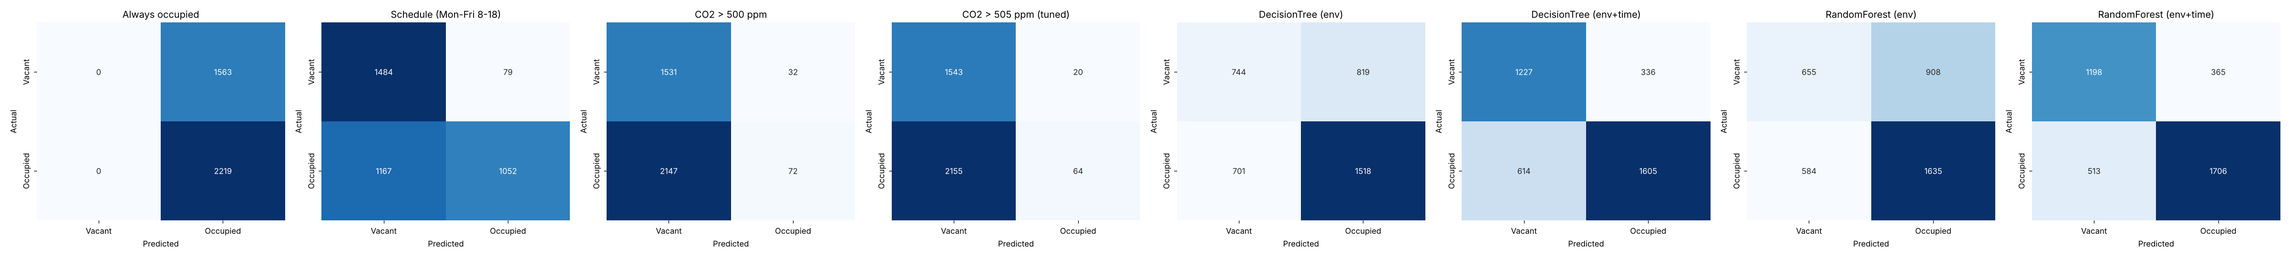
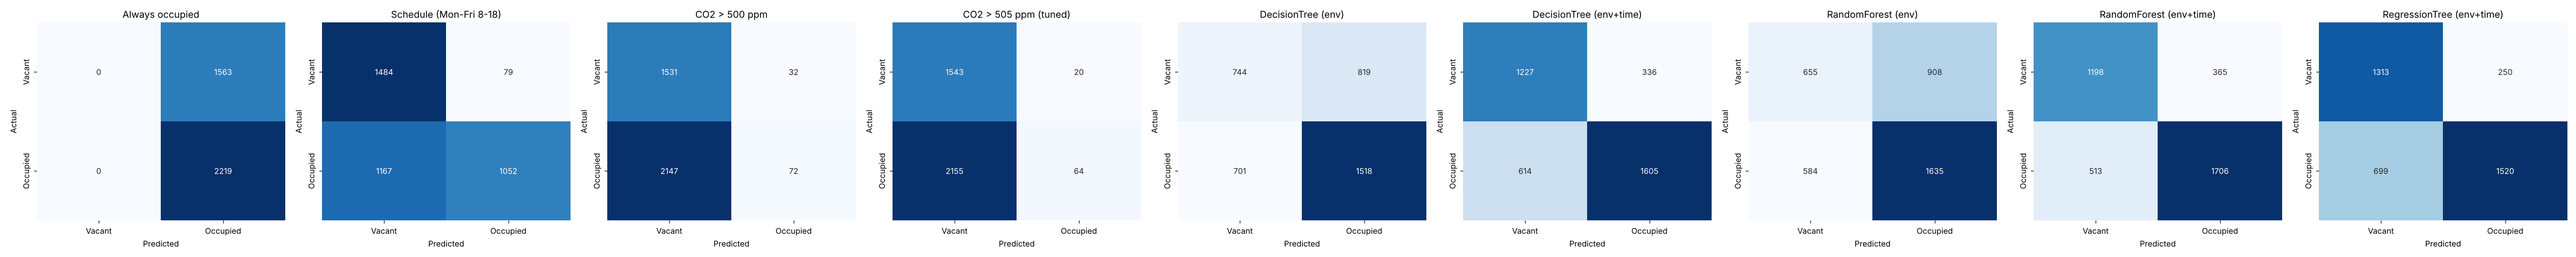
Add a regression tree on the share of spaces occupied
- train_models.train_regression_tree fits a DecisionTreeRegressor to the
  share of spaces occupied; classify_fraction applies the label threshold
- evaluate.get_regression_metrics reports MAE, RMSE and R2
- main.py compares the thresholded regression tree with the classifiers on
  the test set, in cross-validation, the depth sweep and the threshold
  sensitivity, and writes regression_metrics.csv against a training-mean
  baseline
- Three new tests; test report regenerated (23 passed)

diff --git a/results/test_report.html b/results/test_report.html
@@ -328,7 +328,7 @@ div.media {
   </head>
   <body>
     <h1 id="title">test_report.html</h1>
-    <p>Report generated on 24-Oct-2026 at 00:21:47 by <a href="https://pypi.python.org/pypi/pytest-html">pytest-html</a>
+    <p>Report generated on 24-Oct-2026 at 05:44:35 by <a href="https://pypi.python.org/pypi/pytest-html">pytest-html</a>
         v4.2.0</p>
     <div id="environment-header">
       <h2>Environment</h2>
@@ -383,7 +383,7 @@ div.media {
         <h2>Summary</h2>
         <div class="additional-summary prefix">
         </div>
-        <p class="run-count">20 tests took 00:00:03.</p>
+        <p class="run-count">23 tests took 00:00:02.</p>
         <p class="filter">(Un)check the boxes to filter the results.</p>
         <div class="summary__reload">
           <div class="summary__reload__button hidden" onclick="location.reload()">
@@ -396,7 +396,7 @@ div.media {
             <input checked="true" class="filter" name="filter_checkbox" type="checkbox" data-test-result="failed" disabled>
             <span class="failed">0 Failed,</span>
             <input checked="true" class="filter" name="filter_checkbox" type="checkbox" data-test-result="passed" >
-            <span class="passed">20 Passed,</span>
+            <span class="passed">23 Passed,</span>
             <input checked="true" class="filter" name="filter_checkbox" type="checkbox" data-test-result="skipped" disabled>
             <span class="skipped">0 Skipped,</span>
             <input checked="true" class="filter" name="filter_checkbox" type="checkbox" data-test-result="xfailed" disabled>
@@ -431,7 +431,7 @@ div.media {
       </thead>
     </table>
   <footer>
-    <div id="data-container" data-jsonblob="{&#34;environment&#34;: {&#34;Python&#34;: &#34;3.13.16&#34;, &#34;Platform&#34;: &#34;Linux-6.18.44-fc-v153-x86_64-with-glibc2.39&#34;, &#34;Packages&#34;: {&#34;pytest&#34;: &#34;9.1.1&#34;, &#34;pluggy&#34;: &#34;1.7.0&#34;}, &#34;Plugins&#34;: {&#34;html&#34;: &#34;4.2.0&#34;, &#34;metadata&#34;: &#34;3.1.1&#34;, &#34;anyio&#34;: &#34;4.15.1&#34;}, &#34;JAVA_HOME&#34;: &#34;/usr/lib/jvm/java-21-openjdk-amd64&#34;}, &#34;tests&#34;: {&#34;tests/test_data_loader.py::test_status_held_until_next_event&#34;: [{&#34;extras&#34;: [], &#34;result&#34;: &#34;Passed&#34;, &#34;testId&#34;: &#34;tests/test_data_loader.py::test_status_held_until_next_event&#34;, &#34;duration&#34;: &#34;11 ms&#34;, &#34;resultsTableRow&#34;: [&#34;&lt;td class=\&#34;col-result\&#34;&gt;Passed&lt;/td&gt;&#34;, &#34;&lt;td class=\&#34;col-testId\&#34;&gt;tests/test_data_loader.py::test_status_held_until_next_event&lt;/td&gt;&#34;, &#34;&lt;td class=\&#34;col-duration\&#34;&gt;11 ms&lt;/td&gt;&#34;, &#34;&lt;td class=\&#34;col-links\&#34;&gt;&lt;/td&gt;&#34;], &#34;log&#34;: &#34;No log output captured.&#34;}], &#34;tests/test_data_loader.py::test_status_expires_after_max_hold&#34;: [{&#34;extras&#34;: [], &#34;result&#34;: &#34;Passed&#34;, &#34;testId&#34;: &#34;tests/test_data_loader.py::test_status_expires_after_max_hold&#34;, &#34;duration&#34;: &#34;5 ms&#34;, &#34;resultsTableRow&#34;: [&#34;&lt;td class=\&#34;col-result\&#34;&gt;Passed&lt;/td&gt;&#34;, &#34;&lt;td class=\&#34;col-testId\&#34;&gt;tests/test_data_loader.py::test_status_expires_after_max_hold&lt;/td&gt;&#34;, &#34;&lt;td class=\&#34;col-duration\&#34;&gt;5 ms&lt;/td&gt;&#34;, &#34;&lt;td class=\&#34;col-links\&#34;&gt;&lt;/td&gt;&#34;], &#34;log&#34;: &#34;No log output captured.&#34;}], &#34;tests/test_data_loader.py::test_short_visit_inside_bin_counts_as_occupied&#34;: [{&#34;extras&#34;: [], &#34;result&#34;: &#34;Passed&#34;, &#34;testId&#34;: &#34;tests/test_data_loader.py::test_short_visit_inside_bin_counts_as_occupied&#34;, &#34;duration&#34;: &#34;4 ms&#34;, &#34;resultsTableRow&#34;: [&#34;&lt;td class=\&#34;col-result\&#34;&gt;Passed&lt;/td&gt;&#34;, &#34;&lt;td class=\&#34;col-testId\&#34;&gt;tests/test_data_loader.py::test_short_visit_inside_bin_counts_as_occupied&lt;/td&gt;&#34;, &#34;&lt;td class=\&#34;col-duration\&#34;&gt;4 ms&lt;/td&gt;&#34;, &#34;&lt;td class=\&#34;col-links\&#34;&gt;&lt;/td&gt;&#34;], &#34;log&#34;: &#34;No log output captured.&#34;}], &#34;tests/test_data_loader.py::test_building_fraction_requires_enough_known_spaces&#34;: [{&#34;extras&#34;: [], &#34;result&#34;: &#34;Passed&#34;, &#34;testId&#34;: &#34;tests/test_data_loader.py::test_building_fraction_requires_enough_known_spaces&#34;, &#34;duration&#34;: &#34;2 ms&#34;, &#34;resultsTableRow&#34;: [&#34;&lt;td class=\&#34;col-result\&#34;&gt;Passed&lt;/td&gt;&#34;, &#34;&lt;td class=\&#34;col-testId\&#34;&gt;tests/test_data_loader.py::test_building_fraction_requires_enough_known_spaces&lt;/td&gt;&#34;, &#34;&lt;td class=\&#34;col-duration\&#34;&gt;2 ms&lt;/td&gt;&#34;, &#34;&lt;td class=\&#34;col-links\&#34;&gt;&lt;/td&gt;&#34;], &#34;log&#34;: &#34;No log output captured.&#34;}], &#34;tests/test_data_loader.py::test_label_threshold_is_inclusive&#34;: [{&#34;extras&#34;: [], &#34;result&#34;: &#34;Passed&#34;, &#34;testId&#34;: &#34;tests/test_data_loader.py::test_label_threshold_is_inclusive&#34;, &#34;duration&#34;: &#34;0 ms&#34;, &#34;resultsTableRow&#34;: [&#34;&lt;td class=\&#34;col-result\&#34;&gt;Passed&lt;/td&gt;&#34;, &#34;&lt;td class=\&#34;col-testId\&#34;&gt;tests/test_data_loader.py::test_label_threshold_is_inclusive&lt;/td&gt;&#34;, &#34;&lt;td class=\&#34;col-duration\&#34;&gt;0 ms&lt;/td&gt;&#34;, &#34;&lt;td class=\&#34;col-links\&#34;&gt;&lt;/td&gt;&#34;], &#34;log&#34;: &#34;No log output captured.&#34;}], &#34;tests/test_data_loader.py::test_features_use_local_time_and_skip_gaps&#34;: [{&#34;extras&#34;: [], &#34;result&#34;: &#34;Passed&#34;, &#34;testId&#34;: &#34;tests/test_data_loader.py::test_features_use_local_time_and_skip_gaps&#34;, &#34;duration&#34;: &#34;4 ms&#34;, &#34;resultsTableRow&#34;: [&#34;&lt;td class=\&#34;col-result\&#34;&gt;Passed&lt;/td&gt;&#34;, &#34;&lt;td class=\&#34;col-testId\&#34;&gt;tests/test_data_loader.py::test_features_use_local_time_and_skip_gaps&lt;/td&gt;&#34;, &#34;&lt;td class=\&#34;col-duration\&#34;&gt;4 ms&lt;/td&gt;&#34;, &#34;&lt;td class=\&#34;col-links\&#34;&gt;&lt;/td&gt;&#34;], &#34;log&#34;: &#34;No log output captured.&#34;}], &#34;tests/test_data_loader.py::test_env_loader_removes_duplicates_and_faults&#34;: [{&#34;extras&#34;: [], &#34;result&#34;: &#34;Passed&#34;, &#34;testId&#34;: &#34;tests/test_data_loader.py::test_env_loader_removes_duplicates_and_faults&#34;, &#34;duration&#34;: &#34;9 ms&#34;, &#34;resultsTableRow&#34;: [&#34;&lt;td class=\&#34;col-result\&#34;&gt;Passed&lt;/td&gt;&#34;, &#34;&lt;td class=\&#34;col-testId\&#34;&gt;tests/test_data_loader.py::test_env_loader_removes_duplicates_and_faults&lt;/td&gt;&#34;, &#34;&lt;td class=\&#34;col-duration\&#34;&gt;9 ms&lt;/td&gt;&#34;, &#34;&lt;td class=\&#34;col-links\&#34;&gt;&lt;/td&gt;&#34;], &#34;log&#34;: &#34;No log output captured.&#34;}], &#34;tests/test_data_loader.py::test_occupancy_status_mapping[False-expected0]&#34;: [{&#34;extras&#34;: [], &#34;result&#34;: &#34;Passed&#34;, &#34;testId&#34;: &#34;tests/test_data_loader.py::test_occupancy_status_mapping[False-expected0]&#34;, &#34;duration&#34;: &#34;9 ms&#34;, &#34;resultsTableRow&#34;: [&#34;&lt;td class=\&#34;col-result\&#34;&gt;Passed&lt;/td&gt;&#34;, &#34;&lt;td class=\&#34;col-testId\&#34;&gt;tests/test_data_loader.py::test_occupancy_status_mapping[False-expected0]&lt;/td&gt;&#34;, &#34;&lt;td class=\&#34;col-duration\&#34;&gt;9 ms&lt;/td&gt;&#34;, &#34;&lt;td class=\&#34;col-links\&#34;&gt;&lt;/td&gt;&#34;], &#34;log&#34;: &#34;No log output captured.&#34;}], &#34;tests/test_data_loader.py::test_occupancy_status_mapping[True-expected1]&#34;: [{&#34;extras&#34;: [], &#34;result&#34;: &#34;Passed&#34;, &#34;testId&#34;: &#34;tests/test_data_loader.py::test_occupancy_status_mapping[True-expected1]&#34;, &#34;duration&#34;: &#34;8 ms&#34;, &#34;resultsTableRow&#34;: [&#34;&lt;td class=\&#34;col-result\&#34;&gt;Passed&lt;/td&gt;&#34;, &#34;&lt;td class=\&#34;col-testId\&#34;&gt;tests/test_data_loader.py::test_occupancy_status_mapping[True-expected1]&lt;/td&gt;&#34;, &#34;&lt;td class=\&#34;col-duration\&#34;&gt;8 ms&lt;/td&gt;&#34;, &#34;&lt;td class=\&#34;col-links\&#34;&gt;&lt;/td&gt;&#34;], &#34;log&#34;: &#34;No log output captured.&#34;}], &#34;tests/test_data_loader.py::test_chronological_split_has_no_overlap&#34;: [{&#34;extras&#34;: [], &#34;result&#34;: &#34;Passed&#34;, &#34;testId&#34;: &#34;tests/test_data_loader.py::test_chronological_split_has_no_overlap&#34;, &#34;duration&#34;: &#34;1 ms&#34;, &#34;resultsTableRow&#34;: [&#34;&lt;td class=\&#34;col-result\&#34;&gt;Passed&lt;/td&gt;&#34;, &#34;&lt;td class=\&#34;col-testId\&#34;&gt;tests/test_data_loader.py::test_chronological_split_has_no_overlap&lt;/td&gt;&#34;, &#34;&lt;td class=\&#34;col-duration\&#34;&gt;1 ms&lt;/td&gt;&#34;, &#34;&lt;td class=\&#34;col-links\&#34;&gt;&lt;/td&gt;&#34;], &#34;log&#34;: &#34;No log output captured.&#34;}], &#34;tests/test_models.py::test_co2_rule&#34;: [{&#34;extras&#34;: [], &#34;result&#34;: &#34;Passed&#34;, &#34;testId&#34;: &#34;tests/test_models.py::test_co2_rule&#34;, &#34;duration&#34;: &#34;1 ms&#34;, &#34;resultsTableRow&#34;: [&#34;&lt;td class=\&#34;col-result\&#34;&gt;Passed&lt;/td&gt;&#34;, &#34;&lt;td class=\&#34;col-testId\&#34;&gt;tests/test_models.py::test_co2_rule&lt;/td&gt;&#34;, &#34;&lt;td class=\&#34;col-duration\&#34;&gt;1 ms&lt;/td&gt;&#34;, &#34;&lt;td class=\&#34;col-links\&#34;&gt;&lt;/td&gt;&#34;], &#34;log&#34;: &#34;No log output captured.&#34;}], &#34;tests/test_models.py::test_fitted_co2_threshold_separates_classes&#34;: [{&#34;extras&#34;: [], &#34;result&#34;: &#34;Passed&#34;, &#34;testId&#34;: &#34;tests/test_models.py::test_fitted_co2_threshold_separates_classes&#34;, &#34;duration&#34;: &#34;185 ms&#34;, &#34;resultsTableRow&#34;: [&#34;&lt;td class=\&#34;col-result\&#34;&gt;Passed&lt;/td&gt;&#34;, &#34;&lt;td class=\&#34;col-testId\&#34;&gt;tests/test_models.py::test_fitted_co2_threshold_separates_classes&lt;/td&gt;&#34;, &#34;&lt;td class=\&#34;col-duration\&#34;&gt;185 ms&lt;/td&gt;&#34;, &#34;&lt;td class=\&#34;col-links\&#34;&gt;&lt;/td&gt;&#34;], &#34;log&#34;: &#34;No log output captured.&#34;}], &#34;tests/test_models.py::test_schedule_baseline&#34;: [{&#34;extras&#34;: [], &#34;result&#34;: &#34;Passed&#34;, &#34;testId&#34;: &#34;tests/test_models.py::test_schedule_baseline&#34;, &#34;duration&#34;: &#34;1 ms&#34;, &#34;resultsTableRow&#34;: [&#34;&lt;td class=\&#34;col-result\&#34;&gt;Passed&lt;/td&gt;&#34;, &#34;&lt;td class=\&#34;col-testId\&#34;&gt;tests/test_models.py::test_schedule_baseline&lt;/td&gt;&#34;, &#34;&lt;td class=\&#34;col-duration\&#34;&gt;1 ms&lt;/td&gt;&#34;, &#34;&lt;td class=\&#34;col-links\&#34;&gt;&lt;/td&gt;&#34;], &#34;log&#34;: &#34;No log output captured.&#34;}], &#34;tests/test_models.py::test_models_learn_and_respect_feature_set[env-DecisionTree]&#34;: [{&#34;extras&#34;: [], &#34;result&#34;: &#34;Passed&#34;, &#34;testId&#34;: &#34;tests/test_models.py::test_models_learn_and_respect_feature_set[env-DecisionTree]&#34;, &#34;duration&#34;: &#34;8 ms&#34;, &#34;resultsTableRow&#34;: [&#34;&lt;td class=\&#34;col-result\&#34;&gt;Passed&lt;/td&gt;&#34;, &#34;&lt;td class=\&#34;col-testId\&#34;&gt;tests/test_models.py::test_models_learn_and_respect_feature_set[env-DecisionTree]&lt;/td&gt;&#34;, &#34;&lt;td class=\&#34;col-duration\&#34;&gt;8 ms&lt;/td&gt;&#34;, &#34;&lt;td class=\&#34;col-links\&#34;&gt;&lt;/td&gt;&#34;], &#34;log&#34;: &#34;No log output captured.&#34;}], &#34;tests/test_models.py::test_models_learn_and_respect_feature_set[env-RandomForest]&#34;: [{&#34;extras&#34;: [], &#34;result&#34;: &#34;Passed&#34;, &#34;testId&#34;: &#34;tests/test_models.py::test_models_learn_and_respect_feature_set[env-RandomForest]&#34;, &#34;duration&#34;: &#34;221 ms&#34;, &#34;resultsTableRow&#34;: [&#34;&lt;td class=\&#34;col-result\&#34;&gt;Passed&lt;/td&gt;&#34;, &#34;&lt;td class=\&#34;col-testId\&#34;&gt;tests/test_models.py::test_models_learn_and_respect_feature_set[env-RandomForest]&lt;/td&gt;&#34;, &#34;&lt;td class=\&#34;col-duration\&#34;&gt;221 ms&lt;/td&gt;&#34;, &#34;&lt;td class=\&#34;col-links\&#34;&gt;&lt;/td&gt;&#34;], &#34;log&#34;: &#34;No log output captured.&#34;}], &#34;tests/test_models.py::test_models_learn_and_respect_feature_set[env+time-DecisionTree]&#34;: [{&#34;extras&#34;: [], &#34;result&#34;: &#34;Passed&#34;, &#34;testId&#34;: &#34;tests/test_models.py::test_models_learn_and_respect_feature_set[env+time-DecisionTree]&#34;, &#34;duration&#34;: &#34;6 ms&#34;, &#34;resultsTableRow&#34;: [&#34;&lt;td class=\&#34;col-result\&#34;&gt;Passed&lt;/td&gt;&#34;, &#34;&lt;td class=\&#34;col-testId\&#34;&gt;tests/test_models.py::test_models_learn_and_respect_feature_set[env+time-DecisionTree]&lt;/td&gt;&#34;, &#34;&lt;td class=\&#34;col-duration\&#34;&gt;6 ms&lt;/td&gt;&#34;, &#34;&lt;td class=\&#34;col-links\&#34;&gt;&lt;/td&gt;&#34;], &#34;log&#34;: &#34;No log output captured.&#34;}], &#34;tests/test_models.py::test_models_learn_and_respect_feature_set[env+time-RandomForest]&#34;: [{&#34;extras&#34;: [], &#34;result&#34;: &#34;Passed&#34;, &#34;testId&#34;: &#34;tests/test_models.py::test_models_learn_and_respect_feature_set[env+time-RandomForest]&#34;, &#34;duration&#34;: &#34;205 ms&#34;, &#34;resultsTableRow&#34;: [&#34;&lt;td class=\&#34;col-result\&#34;&gt;Passed&lt;/td&gt;&#34;, &#34;&lt;td class=\&#34;col-testId\&#34;&gt;tests/test_models.py::test_models_learn_and_respect_feature_set[env+time-RandomForest]&lt;/td&gt;&#34;, &#34;&lt;td class=\&#34;col-duration\&#34;&gt;205 ms&lt;/td&gt;&#34;, &#34;&lt;td class=\&#34;col-links\&#34;&gt;&lt;/td&gt;&#34;], &#34;log&#34;: &#34;No log output captured.&#34;}], &#34;tests/test_models.py::test_metrics_known_values&#34;: [{&#34;extras&#34;: [], &#34;result&#34;: &#34;Passed&#34;, &#34;testId&#34;: &#34;tests/test_models.py::test_metrics_known_values&#34;, &#34;duration&#34;: &#34;8 ms&#34;, &#34;resultsTableRow&#34;: [&#34;&lt;td class=\&#34;col-result\&#34;&gt;Passed&lt;/td&gt;&#34;, &#34;&lt;td class=\&#34;col-testId\&#34;&gt;tests/test_models.py::test_metrics_known_values&lt;/td&gt;&#34;, &#34;&lt;td class=\&#34;col-duration\&#34;&gt;8 ms&lt;/td&gt;&#34;, &#34;&lt;td class=\&#34;col-links\&#34;&gt;&lt;/td&gt;&#34;], &#34;log&#34;: &#34;No log output captured.&#34;}], &#34;tests/test_models.py::test_time_series_cv_never_trains_on_future&#34;: [{&#34;extras&#34;: [], &#34;result&#34;: &#34;Passed&#34;, &#34;testId&#34;: &#34;tests/test_models.py::test_time_series_cv_never_trains_on_future&#34;, &#34;duration&#34;: &#34;35 ms&#34;, &#34;resultsTableRow&#34;: [&#34;&lt;td class=\&#34;col-result\&#34;&gt;Passed&lt;/td&gt;&#34;, &#34;&lt;td class=\&#34;col-testId\&#34;&gt;tests/test_models.py::test_time_series_cv_never_trains_on_future&lt;/td&gt;&#34;, &#34;&lt;td class=\&#34;col-duration\&#34;&gt;35 ms&lt;/td&gt;&#34;, &#34;&lt;td class=\&#34;col-links\&#34;&gt;&lt;/td&gt;&#34;], &#34;log&#34;: &#34;No log output captured.&#34;}], &#34;tests/test_models.py::test_remove_time_pattern_leaves_only_within_hour_variation&#34;: [{&#34;extras&#34;: [], &#34;result&#34;: &#34;Passed&#34;, &#34;testId&#34;: &#34;tests/test_models.py::test_remove_time_pattern_leaves_only_within_hour_variation&#34;, &#34;duration&#34;: &#34;5 ms&#34;, &#34;resultsTableRow&#34;: [&#34;&lt;td class=\&#34;col-result\&#34;&gt;Passed&lt;/td&gt;&#34;, &#34;&lt;td class=\&#34;col-testId\&#34;&gt;tests/test_models.py::test_remove_time_pattern_leaves_only_within_hour_variation&lt;/td&gt;&#34;, &#34;&lt;td class=\&#34;col-duration\&#34;&gt;5 ms&lt;/td&gt;&#34;, &#34;&lt;td class=\&#34;col-links\&#34;&gt;&lt;/td&gt;&#34;], &#34;log&#34;: &#34;No log output captured.&#34;}]}, &#34;renderCollapsed&#34;: [&#34;passed&#34;], &#34;initialSort&#34;: &#34;result&#34;, &#34;title&#34;: &#34;test_report.html&#34;}"></div>
+    <div id="data-container" data-jsonblob="{&#34;environment&#34;: {&#34;Python&#34;: &#34;3.13.16&#34;, &#34;Platform&#34;: &#34;Linux-6.18.44-fc-v153-x86_64-with-glibc2.39&#34;, &#34;Packages&#34;: {&#34;pytest&#34;: &#34;9.1.1&#34;, &#34;pluggy&#34;: &#34;1.7.0&#34;}, &#34;Plugins&#34;: {&#34;html&#34;: &#34;4.2.0&#34;, &#34;metadata&#34;: &#34;3.1.1&#34;, &#34;anyio&#34;: &#34;4.15.1&#34;}, &#34;JAVA_HOME&#34;: &#34;/usr/lib/jvm/java-21-openjdk-amd64&#34;}, &#34;tests&#34;: {&#34;tests/test_data_loader.py::test_status_held_until_next_event&#34;: [{&#34;extras&#34;: [], &#34;result&#34;: &#34;Passed&#34;, &#34;testId&#34;: &#34;tests/test_data_loader.py::test_status_held_until_next_event&#34;, &#34;duration&#34;: &#34;8 ms&#34;, &#34;resultsTableRow&#34;: [&#34;&lt;td class=\&#34;col-result\&#34;&gt;Passed&lt;/td&gt;&#34;, &#34;&lt;td class=\&#34;col-testId\&#34;&gt;tests/test_data_loader.py::test_status_held_until_next_event&lt;/td&gt;&#34;, &#34;&lt;td class=\&#34;col-duration\&#34;&gt;8 ms&lt;/td&gt;&#34;, &#34;&lt;td class=\&#34;col-links\&#34;&gt;&lt;/td&gt;&#34;], &#34;log&#34;: &#34;No log output captured.&#34;}], &#34;tests/test_data_loader.py::test_status_expires_after_max_hold&#34;: [{&#34;extras&#34;: [], &#34;result&#34;: &#34;Passed&#34;, &#34;testId&#34;: &#34;tests/test_data_loader.py::test_status_expires_after_max_hold&#34;, &#34;duration&#34;: &#34;4 ms&#34;, &#34;resultsTableRow&#34;: [&#34;&lt;td class=\&#34;col-result\&#34;&gt;Passed&lt;/td&gt;&#34;, &#34;&lt;td class=\&#34;col-testId\&#34;&gt;tests/test_data_loader.py::test_status_expires_after_max_hold&lt;/td&gt;&#34;, &#34;&lt;td class=\&#34;col-duration\&#34;&gt;4 ms&lt;/td&gt;&#34;, &#34;&lt;td class=\&#34;col-links\&#34;&gt;&lt;/td&gt;&#34;], &#34;log&#34;: &#34;No log output captured.&#34;}], &#34;tests/test_data_loader.py::test_short_visit_inside_bin_counts_as_occupied&#34;: [{&#34;extras&#34;: [], &#34;result&#34;: &#34;Passed&#34;, &#34;testId&#34;: &#34;tests/test_data_loader.py::test_short_visit_inside_bin_counts_as_occupied&#34;, &#34;duration&#34;: &#34;4 ms&#34;, &#34;resultsTableRow&#34;: [&#34;&lt;td class=\&#34;col-result\&#34;&gt;Passed&lt;/td&gt;&#34;, &#34;&lt;td class=\&#34;col-testId\&#34;&gt;tests/test_data_loader.py::test_short_visit_inside_bin_counts_as_occupied&lt;/td&gt;&#34;, &#34;&lt;td class=\&#34;col-duration\&#34;&gt;4 ms&lt;/td&gt;&#34;, &#34;&lt;td class=\&#34;col-links\&#34;&gt;&lt;/td&gt;&#34;], &#34;log&#34;: &#34;No log output captured.&#34;}], &#34;tests/test_data_loader.py::test_building_fraction_requires_enough_known_spaces&#34;: [{&#34;extras&#34;: [], &#34;result&#34;: &#34;Passed&#34;, &#34;testId&#34;: &#34;tests/test_data_loader.py::test_building_fraction_requires_enough_known_spaces&#34;, &#34;duration&#34;: &#34;2 ms&#34;, &#34;resultsTableRow&#34;: [&#34;&lt;td class=\&#34;col-result\&#34;&gt;Passed&lt;/td&gt;&#34;, &#34;&lt;td class=\&#34;col-testId\&#34;&gt;tests/test_data_loader.py::test_building_fraction_requires_enough_known_spaces&lt;/td&gt;&#34;, &#34;&lt;td class=\&#34;col-duration\&#34;&gt;2 ms&lt;/td&gt;&#34;, &#34;&lt;td class=\&#34;col-links\&#34;&gt;&lt;/td&gt;&#34;], &#34;log&#34;: &#34;No log output captured.&#34;}], &#34;tests/test_data_loader.py::test_label_threshold_is_inclusive&#34;: [{&#34;extras&#34;: [], &#34;result&#34;: &#34;Passed&#34;, &#34;testId&#34;: &#34;tests/test_data_loader.py::test_label_threshold_is_inclusive&#34;, &#34;duration&#34;: &#34;1 ms&#34;, &#34;resultsTableRow&#34;: [&#34;&lt;td class=\&#34;col-result\&#34;&gt;Passed&lt;/td&gt;&#34;, &#34;&lt;td class=\&#34;col-testId\&#34;&gt;tests/test_data_loader.py::test_label_threshold_is_inclusive&lt;/td&gt;&#34;, &#34;&lt;td class=\&#34;col-duration\&#34;&gt;1 ms&lt;/td&gt;&#34;, &#34;&lt;td class=\&#34;col-links\&#34;&gt;&lt;/td&gt;&#34;], &#34;log&#34;: &#34;No log output captured.&#34;}], &#34;tests/test_data_loader.py::test_features_use_local_time_and_skip_gaps&#34;: [{&#34;extras&#34;: [], &#34;result&#34;: &#34;Passed&#34;, &#34;testId&#34;: &#34;tests/test_data_loader.py::test_features_use_local_time_and_skip_gaps&#34;, &#34;duration&#34;: &#34;3 ms&#34;, &#34;resultsTableRow&#34;: [&#34;&lt;td class=\&#34;col-result\&#34;&gt;Passed&lt;/td&gt;&#34;, &#34;&lt;td class=\&#34;col-testId\&#34;&gt;tests/test_data_loader.py::test_features_use_local_time_and_skip_gaps&lt;/td&gt;&#34;, &#34;&lt;td class=\&#34;col-duration\&#34;&gt;3 ms&lt;/td&gt;&#34;, &#34;&lt;td class=\&#34;col-links\&#34;&gt;&lt;/td&gt;&#34;], &#34;log&#34;: &#34;No log output captured.&#34;}], &#34;tests/test_data_loader.py::test_env_loader_removes_duplicates_and_faults&#34;: [{&#34;extras&#34;: [], &#34;result&#34;: &#34;Passed&#34;, &#34;testId&#34;: &#34;tests/test_data_loader.py::test_env_loader_removes_duplicates_and_faults&#34;, &#34;duration&#34;: &#34;7 ms&#34;, &#34;resultsTableRow&#34;: [&#34;&lt;td class=\&#34;col-result\&#34;&gt;Passed&lt;/td&gt;&#34;, &#34;&lt;td class=\&#34;col-testId\&#34;&gt;tests/test_data_loader.py::test_env_loader_removes_duplicates_and_faults&lt;/td&gt;&#34;, &#34;&lt;td class=\&#34;col-duration\&#34;&gt;7 ms&lt;/td&gt;&#34;, &#34;&lt;td class=\&#34;col-links\&#34;&gt;&lt;/td&gt;&#34;], &#34;log&#34;: &#34;No log output captured.&#34;}], &#34;tests/test_data_loader.py::test_occupancy_status_mapping[False-expected0]&#34;: [{&#34;extras&#34;: [], &#34;result&#34;: &#34;Passed&#34;, &#34;testId&#34;: &#34;tests/test_data_loader.py::test_occupancy_status_mapping[False-expected0]&#34;, &#34;duration&#34;: &#34;7 ms&#34;, &#34;resultsTableRow&#34;: [&#34;&lt;td class=\&#34;col-result\&#34;&gt;Passed&lt;/td&gt;&#34;, &#34;&lt;td class=\&#34;col-testId\&#34;&gt;tests/test_data_loader.py::test_occupancy_status_mapping[False-expected0]&lt;/td&gt;&#34;, &#34;&lt;td class=\&#34;col-duration\&#34;&gt;7 ms&lt;/td&gt;&#34;, &#34;&lt;td class=\&#34;col-links\&#34;&gt;&lt;/td&gt;&#34;], &#34;log&#34;: &#34;No log output captured.&#34;}], &#34;tests/test_data_loader.py::test_occupancy_status_mapping[True-expected1]&#34;: [{&#34;extras&#34;: [], &#34;result&#34;: &#34;Passed&#34;, &#34;testId&#34;: &#34;tests/test_data_loader.py::test_occupancy_status_mapping[True-expected1]&#34;, &#34;duration&#34;: &#34;7 ms&#34;, &#34;resultsTableRow&#34;: [&#34;&lt;td class=\&#34;col-result\&#34;&gt;Passed&lt;/td&gt;&#34;, &#34;&lt;td class=\&#34;col-testId\&#34;&gt;tests/test_data_loader.py::test_occupancy_status_mapping[True-expected1]&lt;/td&gt;&#34;, &#34;&lt;td class=\&#34;col-duration\&#34;&gt;7 ms&lt;/td&gt;&#34;, &#34;&lt;td class=\&#34;col-links\&#34;&gt;&lt;/td&gt;&#34;], &#34;log&#34;: &#34;No log output captured.&#34;}], &#34;tests/test_data_loader.py::test_chronological_split_has_no_overlap&#34;: [{&#34;extras&#34;: [], &#34;result&#34;: &#34;Passed&#34;, &#34;testId&#34;: &#34;tests/test_data_loader.py::test_chronological_split_has_no_overlap&#34;, &#34;duration&#34;: &#34;1 ms&#34;, &#34;resultsTableRow&#34;: [&#34;&lt;td class=\&#34;col-result\&#34;&gt;Passed&lt;/td&gt;&#34;, &#34;&lt;td class=\&#34;col-testId\&#34;&gt;tests/test_data_loader.py::test_chronological_split_has_no_overlap&lt;/td&gt;&#34;, &#34;&lt;td class=\&#34;col-duration\&#34;&gt;1 ms&lt;/td&gt;&#34;, &#34;&lt;td class=\&#34;col-links\&#34;&gt;&lt;/td&gt;&#34;], &#34;log&#34;: &#34;No log output captured.&#34;}], &#34;tests/test_models.py::test_co2_rule&#34;: [{&#34;extras&#34;: [], &#34;result&#34;: &#34;Passed&#34;, &#34;testId&#34;: &#34;tests/test_models.py::test_co2_rule&#34;, &#34;duration&#34;: &#34;1 ms&#34;, &#34;resultsTableRow&#34;: [&#34;&lt;td class=\&#34;col-result\&#34;&gt;Passed&lt;/td&gt;&#34;, &#34;&lt;td class=\&#34;col-testId\&#34;&gt;tests/test_models.py::test_co2_rule&lt;/td&gt;&#34;, &#34;&lt;td class=\&#34;col-duration\&#34;&gt;1 ms&lt;/td&gt;&#34;, &#34;&lt;td class=\&#34;col-links\&#34;&gt;&lt;/td&gt;&#34;], &#34;log&#34;: &#34;No log output captured.&#34;}], &#34;tests/test_models.py::test_fitted_co2_threshold_separates_classes&#34;: [{&#34;extras&#34;: [], &#34;result&#34;: &#34;Passed&#34;, &#34;testId&#34;: &#34;tests/test_models.py::test_fitted_co2_threshold_separates_classes&#34;, &#34;duration&#34;: &#34;131 ms&#34;, &#34;resultsTableRow&#34;: [&#34;&lt;td class=\&#34;col-result\&#34;&gt;Passed&lt;/td&gt;&#34;, &#34;&lt;td class=\&#34;col-testId\&#34;&gt;tests/test_models.py::test_fitted_co2_threshold_separates_classes&lt;/td&gt;&#34;, &#34;&lt;td class=\&#34;col-duration\&#34;&gt;131 ms&lt;/td&gt;&#34;, &#34;&lt;td class=\&#34;col-links\&#34;&gt;&lt;/td&gt;&#34;], &#34;log&#34;: &#34;No log output captured.&#34;}], &#34;tests/test_models.py::test_schedule_baseline&#34;: [{&#34;extras&#34;: [], &#34;result&#34;: &#34;Passed&#34;, &#34;testId&#34;: &#34;tests/test_models.py::test_schedule_baseline&#34;, &#34;duration&#34;: &#34;1 ms&#34;, &#34;resultsTableRow&#34;: [&#34;&lt;td class=\&#34;col-result\&#34;&gt;Passed&lt;/td&gt;&#34;, &#34;&lt;td class=\&#34;col-testId\&#34;&gt;tests/test_models.py::test_schedule_baseline&lt;/td&gt;&#34;, &#34;&lt;td class=\&#34;col-duration\&#34;&gt;1 ms&lt;/td&gt;&#34;, &#34;&lt;td class=\&#34;col-links\&#34;&gt;&lt;/td&gt;&#34;], &#34;log&#34;: &#34;No log output captured.&#34;}], &#34;tests/test_models.py::test_models_learn_and_respect_feature_set[env-DecisionTree]&#34;: [{&#34;extras&#34;: [], &#34;result&#34;: &#34;Passed&#34;, &#34;testId&#34;: &#34;tests/test_models.py::test_models_learn_and_respect_feature_set[env-DecisionTree]&#34;, &#34;duration&#34;: &#34;5 ms&#34;, &#34;resultsTableRow&#34;: [&#34;&lt;td class=\&#34;col-result\&#34;&gt;Passed&lt;/td&gt;&#34;, &#34;&lt;td class=\&#34;col-testId\&#34;&gt;tests/test_models.py::test_models_learn_and_respect_feature_set[env-DecisionTree]&lt;/td&gt;&#34;, &#34;&lt;td class=\&#34;col-duration\&#34;&gt;5 ms&lt;/td&gt;&#34;, &#34;&lt;td class=\&#34;col-links\&#34;&gt;&lt;/td&gt;&#34;], &#34;log&#34;: &#34;No log output captured.&#34;}], &#34;tests/test_models.py::test_models_learn_and_respect_feature_set[env-RandomForest]&#34;: [{&#34;extras&#34;: [], &#34;result&#34;: &#34;Passed&#34;, &#34;testId&#34;: &#34;tests/test_models.py::test_models_learn_and_respect_feature_set[env-RandomForest]&#34;, &#34;duration&#34;: &#34;230 ms&#34;, &#34;resultsTableRow&#34;: [&#34;&lt;td class=\&#34;col-result\&#34;&gt;Passed&lt;/td&gt;&#34;, &#34;&lt;td class=\&#34;col-testId\&#34;&gt;tests/test_models.py::test_models_learn_and_respect_feature_set[env-RandomForest]&lt;/td&gt;&#34;, &#34;&lt;td class=\&#34;col-duration\&#34;&gt;230 ms&lt;/td&gt;&#34;, &#34;&lt;td class=\&#34;col-links\&#34;&gt;&lt;/td&gt;&#34;], &#34;log&#34;: &#34;No log output captured.&#34;}], &#34;tests/test_models.py::test_models_learn_and_respect_feature_set[env+time-DecisionTree]&#34;: [{&#34;extras&#34;: [], &#34;result&#34;: &#34;Passed&#34;, &#34;testId&#34;: &#34;tests/test_models.py::test_models_learn_and_respect_feature_set[env+time-DecisionTree]&#34;, &#34;duration&#34;: &#34;6 ms&#34;, &#34;resultsTableRow&#34;: [&#34;&lt;td class=\&#34;col-result\&#34;&gt;Passed&lt;/td&gt;&#34;, &#34;&lt;td class=\&#34;col-testId\&#34;&gt;tests/test_models.py::test_models_learn_and_respect_feature_set[env+time-DecisionTree]&lt;/td&gt;&#34;, &#34;&lt;td class=\&#34;col-duration\&#34;&gt;6 ms&lt;/td&gt;&#34;, &#34;&lt;td class=\&#34;col-links\&#34;&gt;&lt;/td&gt;&#34;], &#34;log&#34;: &#34;No log output captured.&#34;}], &#34;tests/test_models.py::test_models_learn_and_respect_feature_set[env+time-RandomForest]&#34;: [{&#34;extras&#34;: [], &#34;result&#34;: &#34;Passed&#34;, &#34;testId&#34;: &#34;tests/test_models.py::test_models_learn_and_respect_feature_set[env+time-RandomForest]&#34;, &#34;duration&#34;: &#34;221 ms&#34;, &#34;resultsTableRow&#34;: [&#34;&lt;td class=\&#34;col-result\&#34;&gt;Passed&lt;/td&gt;&#34;, &#34;&lt;td class=\&#34;col-testId\&#34;&gt;tests/test_models.py::test_models_learn_and_respect_feature_set[env+time-RandomForest]&lt;/td&gt;&#34;, &#34;&lt;td class=\&#34;col-duration\&#34;&gt;221 ms&lt;/td&gt;&#34;, &#34;&lt;td class=\&#34;col-links\&#34;&gt;&lt;/td&gt;&#34;], &#34;log&#34;: &#34;No log output captured.&#34;}], &#34;tests/test_models.py::test_metrics_known_values&#34;: [{&#34;extras&#34;: [], &#34;result&#34;: &#34;Passed&#34;, &#34;testId&#34;: &#34;tests/test_models.py::test_metrics_known_values&#34;, &#34;duration&#34;: &#34;8 ms&#34;, &#34;resultsTableRow&#34;: [&#34;&lt;td class=\&#34;col-result\&#34;&gt;Passed&lt;/td&gt;&#34;, &#34;&lt;td class=\&#34;col-testId\&#34;&gt;tests/test_models.py::test_metrics_known_values&lt;/td&gt;&#34;, &#34;&lt;td class=\&#34;col-duration\&#34;&gt;8 ms&lt;/td&gt;&#34;, &#34;&lt;td class=\&#34;col-links\&#34;&gt;&lt;/td&gt;&#34;], &#34;log&#34;: &#34;No log output captured.&#34;}], &#34;tests/test_models.py::test_time_series_cv_never_trains_on_future&#34;: [{&#34;extras&#34;: [], &#34;result&#34;: &#34;Passed&#34;, &#34;testId&#34;: &#34;tests/test_models.py::test_time_series_cv_never_trains_on_future&#34;, &#34;duration&#34;: &#34;33 ms&#34;, &#34;resultsTableRow&#34;: [&#34;&lt;td class=\&#34;col-result\&#34;&gt;Passed&lt;/td&gt;&#34;, &#34;&lt;td class=\&#34;col-testId\&#34;&gt;tests/test_models.py::test_time_series_cv_never_trains_on_future&lt;/td&gt;&#34;, &#34;&lt;td class=\&#34;col-duration\&#34;&gt;33 ms&lt;/td&gt;&#34;, &#34;&lt;td class=\&#34;col-links\&#34;&gt;&lt;/td&gt;&#34;], &#34;log&#34;: &#34;No log output captured.&#34;}], &#34;tests/test_models.py::test_remove_time_pattern_leaves_only_within_hour_variation&#34;: [{&#34;extras&#34;: [], &#34;result&#34;: &#34;Passed&#34;, &#34;testId&#34;: &#34;tests/test_models.py::test_remove_time_pattern_leaves_only_within_hour_variation&#34;, &#34;duration&#34;: &#34;5 ms&#34;, &#34;resultsTableRow&#34;: [&#34;&lt;td class=\&#34;col-result\&#34;&gt;Passed&lt;/td&gt;&#34;, &#34;&lt;td class=\&#34;col-testId\&#34;&gt;tests/test_models.py::test_remove_time_pattern_leaves_only_within_hour_variation&lt;/td&gt;&#34;, &#34;&lt;td class=\&#34;col-duration\&#34;&gt;5 ms&lt;/td&gt;&#34;, &#34;&lt;td class=\&#34;col-links\&#34;&gt;&lt;/td&gt;&#34;], &#34;log&#34;: &#34;No log output captured.&#34;}], &#34;tests/test_models.py::test_regression_tree_predicts_share_and_thresholds&#34;: [{&#34;extras&#34;: [], &#34;result&#34;: &#34;Passed&#34;, &#34;testId&#34;: &#34;tests/test_models.py::test_regression_tree_predicts_share_and_thresholds&#34;, &#34;duration&#34;: &#34;5 ms&#34;, &#34;resultsTableRow&#34;: [&#34;&lt;td class=\&#34;col-result\&#34;&gt;Passed&lt;/td&gt;&#34;, &#34;&lt;td class=\&#34;col-testId\&#34;&gt;tests/test_models.py::test_regression_tree_predicts_share_and_thresholds&lt;/td&gt;&#34;, &#34;&lt;td class=\&#34;col-duration\&#34;&gt;5 ms&lt;/td&gt;&#34;, &#34;&lt;td class=\&#34;col-links\&#34;&gt;&lt;/td&gt;&#34;], &#34;log&#34;: &#34;No log output captured.&#34;}], &#34;tests/test_models.py::test_classify_fraction_threshold_is_inclusive&#34;: [{&#34;extras&#34;: [], &#34;result&#34;: &#34;Passed&#34;, &#34;testId&#34;: &#34;tests/test_models.py::test_classify_fraction_threshold_is_inclusive&#34;, &#34;duration&#34;: &#34;0 ms&#34;, &#34;resultsTableRow&#34;: [&#34;&lt;td class=\&#34;col-result\&#34;&gt;Passed&lt;/td&gt;&#34;, &#34;&lt;td class=\&#34;col-testId\&#34;&gt;tests/test_models.py::test_classify_fraction_threshold_is_inclusive&lt;/td&gt;&#34;, &#34;&lt;td class=\&#34;col-duration\&#34;&gt;0 ms&lt;/td&gt;&#34;, &#34;&lt;td class=\&#34;col-links\&#34;&gt;&lt;/td&gt;&#34;], &#34;log&#34;: &#34;No log output captured.&#34;}], &#34;tests/test_models.py::test_regression_metrics_known_values&#34;: [{&#34;extras&#34;: [], &#34;result&#34;: &#34;Passed&#34;, &#34;testId&#34;: &#34;tests/test_models.py::test_regression_metrics_known_values&#34;, &#34;duration&#34;: &#34;2 ms&#34;, &#34;resultsTableRow&#34;: [&#34;&lt;td class=\&#34;col-result\&#34;&gt;Passed&lt;/td&gt;&#34;, &#34;&lt;td class=\&#34;col-testId\&#34;&gt;tests/test_models.py::test_regression_metrics_known_values&lt;/td&gt;&#34;, &#34;&lt;td class=\&#34;col-duration\&#34;&gt;2 ms&lt;/td&gt;&#34;, &#34;&lt;td class=\&#34;col-links\&#34;&gt;&lt;/td&gt;&#34;], &#34;log&#34;: &#34;No log output captured.&#34;}]}, &#34;renderCollapsed&#34;: [&#34;passed&#34;], &#34;initialSort&#34;: &#34;result&#34;, &#34;title&#34;: &#34;test_report.html&#34;}"></div>
     <script>
       (function(){function r(e,n,t){function o(i,f){if(!n[i]){if(!e[i]){var c="function"==typeof require&&require;if(!f&&c)return c(i,!0);if(u)return u(i,!0);var a=new Error("Cannot find module '"+i+"'");throw a.code="MODULE_NOT_FOUND",a}var p=n[i]={exports:{}};e[i][0].call(p.exports,function(r){var n=e[i][1][r];return o(n||r)},p,p.exports,r,e,n,t)}return n[i].exports}for(var u="function"==typeof require&&require,i=0;i<t.length;i++)o(t[i]);return o}return r})()({1:[function(require,module,exports){
 const { getCollapsedCategory, setCollapsedIds } = require('./storage.js')

diff --git a/code/main.py b/code/main.py
@@ -20,6 +20,7 @@ import train_models
 import evaluate
 
 MODELS = [(kind, fs) for kind in train_models.MODEL_BUILDERS for fs in train_models.FEATURE_SETS]
+REGRESSOR = "RegressionTree (env+time)"
 
 
 def model_name(kind, feature_set):
@@ -31,6 +32,16 @@ def make_fit_predict(kind, feature_set, **params):
     def fit_predict(X_train, y_train, X_val):
         model = train_models.train_model(kind, feature_set, X_train, y_train, **params)
         return train_models.predict(model, feature_set, X_val)
+    return fit_predict
+
+
+def make_regression_fit_predict(threshold=config.OCCUPIED_FRACTION_THRESHOLD, **params):
+    """Regression tree on the share of spaces occupied, thresholded to occupied/vacant."""
+    features = train_models.FEATURE_SETS["env+time"]
+
+    def fit_predict(X_train, y_train, X_val):
+        model = train_models.train_regression_tree(X_train[features], X_train["occupied_fraction"], **params)
+        return train_models.classify_fraction(model.predict(X_val[features]), threshold)
     return fit_predict
 
 
@@ -61,6 +72,22 @@ def compare_on_test(X_train, y_train, X_test, y_test, out_dir):
         fitted[name] = model
         timings.append({"Model": name, "Fit time (s)": fit_s, "Predict time (s)": predict_s})
 
+    # Regression tree: predicts the share of spaces occupied, then applies the label threshold
+    features = train_models.FEATURE_SETS["env+time"]
+    regressor, fit_s = evaluate.time_call(train_models.train_regression_tree, X_train[features],
+                                          X_train["occupied_fraction"])
+    fraction_pred, predict_s = evaluate.time_call(regressor.predict, X_test[features])
+    predictions[REGRESSOR] = train_models.classify_fraction(fraction_pred)
+    fitted[REGRESSOR] = regressor
+    timings.append({"Model": REGRESSOR, "Fit time (s)": fit_s, "Predict time (s)": predict_s})
+    regression = pd.DataFrame([
+        evaluate.get_regression_metrics(X_test["occupied_fraction"], fraction_pred, REGRESSOR),
+        evaluate.get_regression_metrics(X_test["occupied_fraction"],
+                                        [X_train["occupied_fraction"].mean()] * len(X_test),
+                                        "Training mean (no model)"),
+    ])
+    regression.to_csv(os.path.join(out_dir, "regression_metrics.csv"), index=False)
+
     metrics = evaluate.evaluate_all_models(y_test, predictions)
     metrics = metrics.merge(pd.DataFrame(timings), on="Model", how="left")
     metrics.to_csv(os.path.join(out_dir, "test_metrics.csv"), index=False)
@@ -88,8 +115,9 @@ def compare_on_test(X_train, y_train, X_test, y_test, out_dir):
     importances = pd.DataFrame({
         kind: fitted[model_name(kind, "env+time")].feature_importances_ for kind in train_models.MODEL_BUILDERS
     }, index=tree_features)
+    importances["RegressionTree"] = regressor.feature_importances_
     importances.sort_values("DecisionTree", ascending=False).to_csv(os.path.join(out_dir, "feature_importance.csv"))
-    return metrics
+    return metrics, regression
 
 
 def cross_validate_all(X_train, y_train, out_dir):
@@ -98,6 +126,7 @@ def cross_validate_all(X_train, y_train, out_dir):
                   "CO2 threshold (tuned)": co2_threshold_fit_predict}
     for kind, fs in MODELS:
         candidates[model_name(kind, fs)] = make_fit_predict(kind, fs)
+    candidates[REGRESSOR] = make_regression_fit_predict()
 
     rows = []
     for name, fit_predict in candidates.items():
@@ -114,10 +143,13 @@ def cross_validate_all(X_train, y_train, out_dir):
 def depth_sweep(X_train, y_train, out_dir, depths=(2, 3, 5, 8, 12, None)):
     """Tune tree depth with CV on the training period only (the test set stays untouched)."""
     rows = []
-    for kind in train_models.MODEL_BUILDERS:
+    for kind in list(train_models.MODEL_BUILDERS) + ["RegressionTree"]:
         for depth in depths:
-            folds = evaluate.time_series_cv(make_fit_predict(kind, "env+time", max_depth=depth),
-                                            X_train, y_train)
+            if kind == "RegressionTree":
+                fit_predict = make_regression_fit_predict(max_depth=depth)
+            else:
+                fit_predict = make_fit_predict(kind, "env+time", max_depth=depth)
+            folds = evaluate.time_series_cv(fit_predict, X_train, y_train)
             rows.append({"Model": kind, "max_depth": "None" if depth is None else depth,
                          "F1 mean": folds["F1-Score"].mean(), "F1 std": folds["F1-Score"].std()})
     sweep = pd.DataFrame(rows)
@@ -136,6 +168,7 @@ def threshold_sensitivity(data, out_dir, thresholds=(0.2, 0.4, 0.5, 0.6, 0.8)):
             "CO2 threshold (tuned)": co2_threshold_fit_predict(X_train, y_train, X_test),
             "DecisionTree (env+time)": make_fit_predict("DecisionTree", "env+time")(X_train, y_train, X_test),
             "RandomForest (env+time)": make_fit_predict("RandomForest", "env+time")(X_train, y_train, X_test),
+            REGRESSOR: make_regression_fit_predict(threshold)(X_train, y_train, X_test),
         }
         for name, pred in preds.items():
             row = evaluate.get_metrics(y_test, pred, name)
@@ -179,7 +212,10 @@ def main():
 
     pd.set_option("display.width", 200)
     print("\nHeld-out test period:")
-    print(compare_on_test(X_train, y_train, X_test, y_test, out_dir).round(3).to_string(index=False))
+    metrics, regression = compare_on_test(X_train, y_train, X_test, y_test, out_dir)
+    print(metrics.round(3).to_string(index=False))
+    print("\nRegression tree, share of spaces occupied (test period):")
+    print(regression.round(3).to_string(index=False))
 
     if not args.quick:
         print("\nTime-series cross-validation on the training period:")

diff --git a/code/train_models.py b/code/train_models.py
@@ -4,7 +4,8 @@
 Each model is trained on a named feature set so the same code covers the
 environment-only model and the environment + time model.
 """
-from sklearn.tree import DecisionTreeClassifier
+import numpy as np
+from sklearn.tree import DecisionTreeClassifier, DecisionTreeRegressor
 from sklearn.ensemble import RandomForestClassifier
 
 import config
@@ -44,3 +45,19 @@ def train_model(kind, feature_set, X_train, y_train, **params):
 def predict(model, feature_set, X):
     """Predict with a model trained by ``train_model`` on the same feature set."""
     return model.predict(X[FEATURE_SETS[feature_set]])
+
+
+def train_regression_tree(X_train, y_fraction, max_depth=5, random_state=config.RANDOM_STATE):
+    """Fit a regression tree to the share of spaces occupied (0 to 1).
+
+    This is the form of decision tree covered in the unit: splits minimise squared
+    error and each leaf returns the mean share of its training intervals.
+    """
+    model = DecisionTreeRegressor(max_depth=max_depth, random_state=random_state)
+    model.fit(X_train, y_fraction)
+    return model
+
+
+def classify_fraction(fraction, threshold=config.OCCUPIED_FRACTION_THRESHOLD):
+    """Turn a predicted share of spaces occupied into the binary occupied label."""
+    return (np.asarray(fraction) >= threshold).astype(int)

diff --git a/tests/test_models.py b/tests/test_models.py
@@ -75,3 +75,24 @@ def test_remove_time_pattern_leaves_only_within_hour_variation():
                          "x": [10.0, 12.0, 30.0, 30.0]})
     resid = feature_screening.remove_time_pattern(data["x"], data)
     assert resid.tolist() == [-1.0, 1.0, 0.0, 0.0]
+
+
+def test_regression_tree_predicts_share_and_thresholds(toy_data):
+    X, y = toy_data
+    fraction = y * 0.8 + 0.1  # share of spaces occupied: 0.9 when occupied, 0.1 when vacant
+    features = train_models.FEATURE_SETS["env+time"]
+    model = train_models.train_regression_tree(X[features].iloc[:300], fraction.iloc[:300])
+    pred = model.predict(X[features].iloc[300:])
+    assert ((pred >= 0) & (pred <= 1)).all()
+    assert (train_models.classify_fraction(pred) == y.iloc[300:].to_numpy()).mean() > 0.9
+
+
+def test_classify_fraction_threshold_is_inclusive():
+    assert train_models.classify_fraction([0.49, 0.5, 0.8]).tolist() == [0, 1, 1]
+
+
+def test_regression_metrics_known_values():
+    m = evaluate.get_regression_metrics([0.0, 1.0], [0.5, 0.5], "m")
+    assert m["MAE"] == pytest.approx(0.5)
+    assert m["RMSE"] == pytest.approx(0.5)
+    assert m["R2"] == pytest.approx(0.0)

diff --git a/code/evaluate.py b/code/evaluate.py
@@ -5,7 +5,8 @@ import matplotlib.pyplot as plt
 import seaborn as sns
 import pandas as pd
 from sklearn.metrics import (accuracy_score, balanced_accuracy_score, precision_score,
-                             recall_score, f1_score, confusion_matrix)
+                             recall_score, f1_score, confusion_matrix,
+                             mean_absolute_error, mean_squared_error, r2_score)
 from sklearn.model_selection import TimeSeriesSplit
 from sklearn.tree import plot_tree, export_text
 
@@ -25,6 +26,16 @@ def get_metrics(y_true, y_pred, model_name):
         'Precision': precision_score(y_true, y_pred, zero_division=0),
         'Recall': recall_score(y_true, y_pred, zero_division=0),
         'F1-Score': f1_score(y_true, y_pred, zero_division=0)
+    }
+
+
+def get_regression_metrics(y_true, y_pred, model_name):
+    """Regression metrics for a predicted share of spaces occupied (0 to 1)."""
+    return {
+        'Model': model_name,
+        'MAE': mean_absolute_error(y_true, y_pred),
+        'RMSE': mean_squared_error(y_true, y_pred) ** 0.5,
+        'R2': r2_score(y_true, y_pred)
     }
 
 

diff --git a/README.md b/README.md
@@ -10,7 +10,7 @@ code/
   config.py             all tunable settings (sensor, time bin, label threshold, feature sets)
   data_loader.py        load, de-duplicate, range-check and align env + occupancy data
   baseline.py           rule-based baselines (always occupied, fixed schedule, CO2 threshold)
-  train_models.py       decision tree and random forest on "env" or "env+time" features
+  train_models.py       decision tree and random forest classifiers, and a regression tree
   evaluate.py           metrics, time-series cross-validation, timing, confusion matrices
   main.py               runs the full workflow and writes results/
   feature_screening.py  correlation matrix and ablation of every recorded variable
@@ -51,7 +51,8 @@ count as occupied (default 0.5); `--recent-as-occupied` counts `RecentlyOccupied
 
 Each run writes to `results/sensor_<id>/`: `data_audit.json` (cleaning counts, periods),
 `test_metrics.csv`, `confusion_matrices.png`, `feature_importance.csv`, `cv_summary.csv`,
-`depth_sweep.csv`, `threshold_sensitivity.csv`, `test_timeline.png` and
+`depth_sweep.csv`, `threshold_sensitivity.csv`, `regression_metrics.csv` (regression tree
+MAE, RMSE and R² for the share of spaces occupied), `test_timeline.png` and
 `test_timeline_week.png` (test period over time with each model's errors), and
 `decision_tree_top.png`, `decision_tree_full.png` and `decision_tree_rules.txt`. `feature_screening.py` writes
 `correlation_matrix.png`, `correlation_with_occupancy.csv` and `ablation.csv` to
